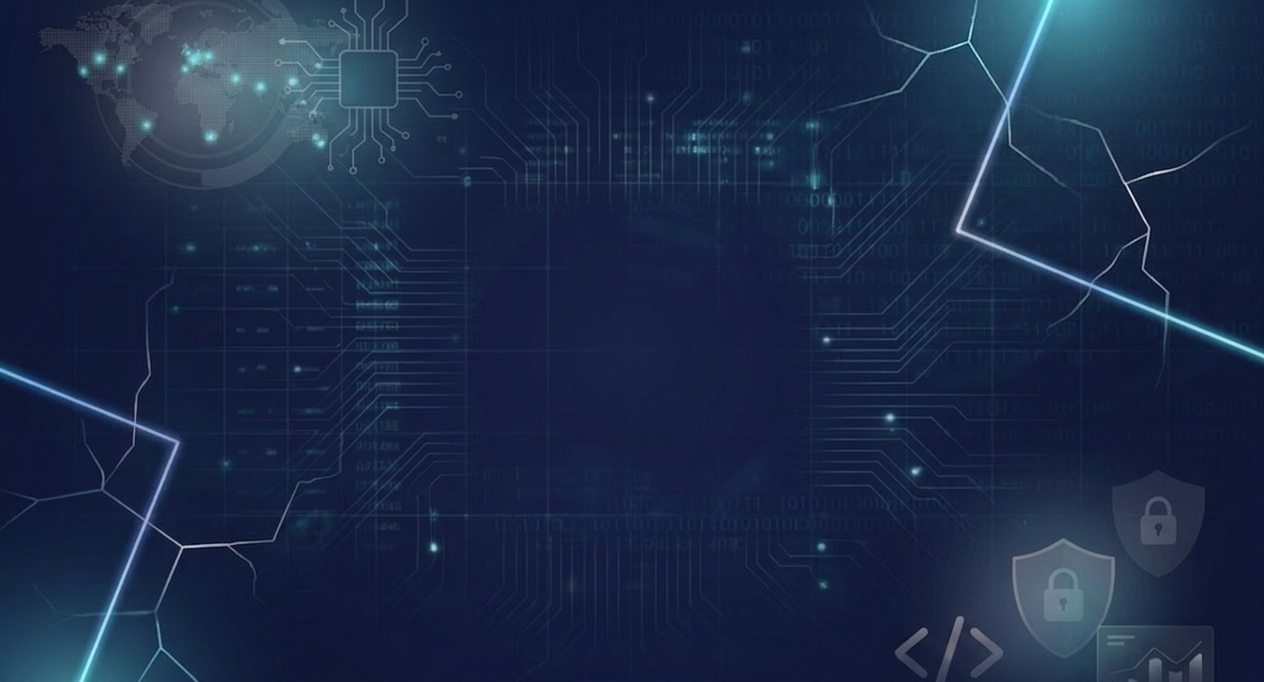
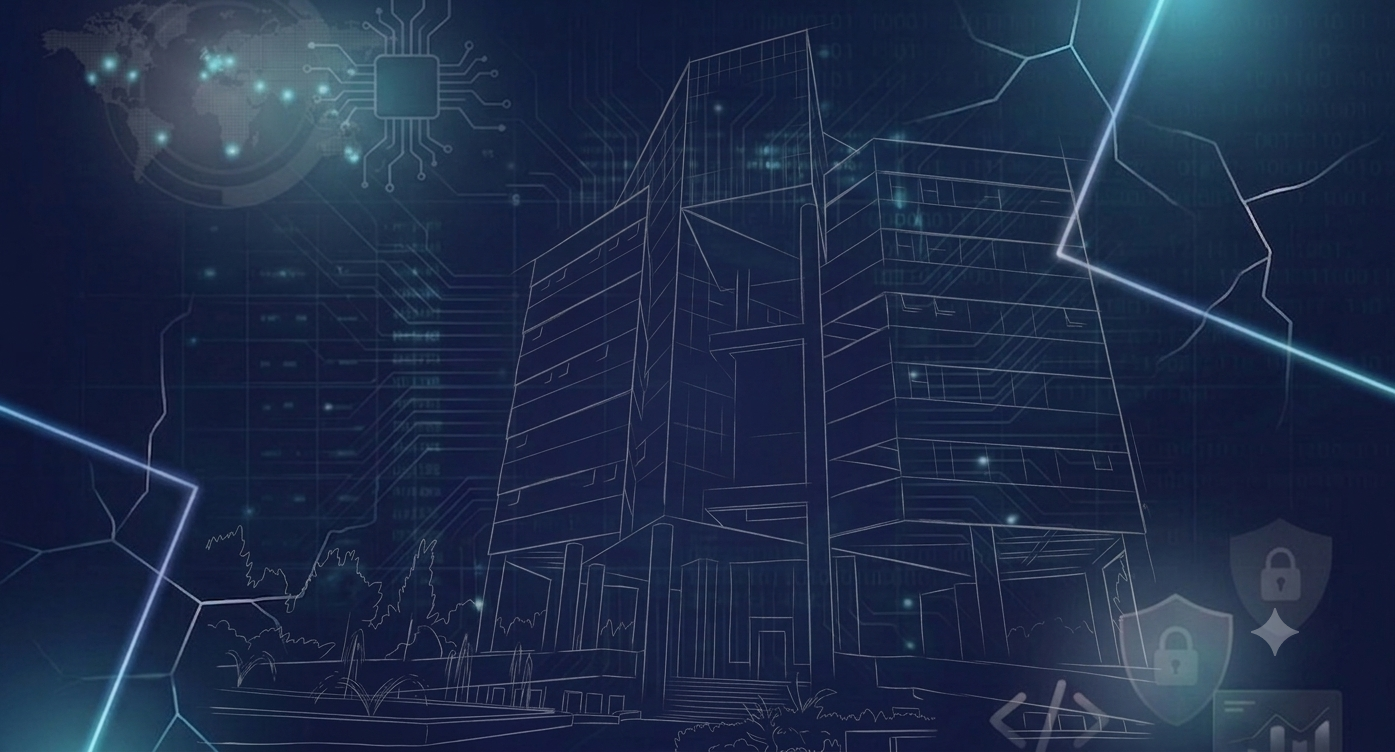
Se realizaron los cambios propuestos

diff --git a/index.html b/index.html
@@ -103,6 +103,14 @@ nav.scrolled {
   border-radius: 10px; padding: 5px;
 }
 
+/* Segundo logo institucional del navbar, junto al de la ESPE */
+.nav-badges { display: flex; align-items: center; gap: 0.6rem; flex-shrink: 0; }
+.ph-nav-badge-2 {
+  width: 42px; height: 42px; object-fit: contain;
+  background: linear-gradient(135deg, #ffffff 0%, #e2e8f0 100%);
+  border-radius: 10px; padding: 5px;
+}
+
 /* Botón de inscripción en el navbar, junto al logo */
 .btn-inscripcion-nav {
   display: inline-flex; align-items: center; gap: 8px;
@@ -190,11 +198,32 @@ header::after {
 
 .hero-content { max-width: 900px; position: relative; z-index: 10; display: flex; flex-direction: column; align-items: center;}
 
-.ph-hero-logo {
-  width:400px; height: auto; max-height: 250px; border-color: var(--green);
-  color: var(--green); font-size: 1.2rem; font-weight: bold; 
-  
+/* Fila superior de logos institucionales del Hero: ESPE + Hackathon lado a lado */
+.hero-logos-row {
+  display: flex; align-items: flex-start; justify-content: center;
+  gap: 1.50rem; flex-wrap: nowrap; margin-bottom: 1.75rem;
 }
+.hero-logo-espe {
+  background: linear-gradient(135deg, #ffffff 0%, #e2e8f0 100%);
+  border-radius: 18px; padding: 14px 28px;
+  display: flex; align-items: center; justify-content: center;
+  box-shadow: 0 8px 30px rgba(0,0,0,.35);
+}
+.hero-logo-espe img { max-height: 80px; width: auto; object-fit: contain; }
+
+.ph-hero-logo {
+  width: auto; max-height: 120px; object-fit: contain; border-color: var(--green);
+  color: var(--green); font-size: 1.2rem; font-weight: bold; 
+}
+
+/* Etiqueta de texto que acompaña a los logos, en la misma línea */
+.hero-logo-label {
+  background: rgba(0,212,255,.1); border: 1px solid var(--cyan);
+  border-radius: 14px; padding: 14px 26px; box-shadow: var(--cyan-glow);
+  font-family: 'Bebas Neue', sans-serif; font-size: 1.3rem; letter-spacing: 1px;
+  color: white; display: flex; align-items: center; text-align: left; line-height: 1.15;
+}
+.hero-logo-label span { color: var(--cyan); display: block; }
 
 .badge-presencial {
   display: inline-flex; align-items: center; gap: 8px;
@@ -205,8 +234,9 @@ header::after {
 }
 
 .hero-title {
-  font-size: clamp(3rem, 7vw, 6rem); color: white;
+  font-size: clamp(4rem, 9vw, 1rem); color: white;
   text-shadow: 0 0 40px rgba(0,212,255,.3); margin-bottom: 1rem;
+  text-align: center;
 }
 .hero-title span { color: var(--cyan); display: block; }
 
@@ -269,23 +299,26 @@ header::after {
 }
 .insc-left h3 span { color: var(--green); }
 .inscripcion-doc-note {
-  display: flex; align-items: center; gap: 12px; text-align: left;
-  background: rgba(255,255,255,0.03); border: 1px solid rgba(0,255,157,.25);
-  padding: 12px 18px; border-radius: 12px; margin-top: 1.25rem; max-width: 460px;
+  display: flex; align-items: center; gap: 18px; text-align: left;
+  background: rgba(0,255,157,0.07); border: 2px solid var(--green);
+  box-shadow: var(--green-glow);
+  padding: 20px 26px; border-radius: 16px; margin-top: 1.5rem; max-width: 560px;
   position: relative;
 }
 .inscripcion-doc-note .doc-icon {
-  width: 34px; height: 34px; flex-shrink: 0; border-radius: 9px;
-  background: rgba(0,255,157,.12); display: flex; align-items: center; justify-content: center;
-  color: var(--green); font-size: 1rem;
+  width: 48px; height: 48px; flex-shrink: 0; border-radius: 12px;
+  background: rgba(0,255,157,.18); display: flex; align-items: center; justify-content: center;
+  color: var(--green); font-size: 1.5rem;
 }
-.inscripcion-doc-note p { color: var(--text-muted); font-size: 0.8rem; margin: 0; }
-.inscripcion-doc-note strong { color: white; }
+.inscripcion-doc-note p { color: var(--text-main); font-size: 0.98rem; margin: 0; }
+.inscripcion-doc-note strong { color: var(--green); text-transform: uppercase; letter-spacing: 0.5px; }
 .inscripcion-doc-note a {
-  display: inline-block; margin-top: 4px; color: var(--green); font-weight: bold;
-  text-decoration: underline; text-underline-offset: 3px; font-size: 0.8rem;
+  display: inline-flex; align-items: center; gap: 6px; margin-top: 10px;
+  background: var(--green); color: var(--navy); font-weight: 700;
+  padding: 8px 16px; border-radius: 50px; text-decoration: none; font-size: 0.85rem;
+  transition: transform 0.25s ease, box-shadow 0.25s ease;
 }
-.inscripcion-doc-note a:hover { color: white; }
+.inscripcion-doc-note a:hover { box-shadow: var(--green-glow); transform: translateY(-2px); }
 
 .insc-right { position: relative; flex-shrink: 0; }
 .btn-inscripcion-main {
@@ -449,39 +482,66 @@ footer {
 
 /* Logos Institucionales en el Footer */
 .footer-institutions {
-  display: flex; justify-content: center; align-items: center; gap: 3rem; 
+  display: flex; justify-content: center; align-items: flex-start; gap: 3rem; 
   flex-wrap: wrap; padding-bottom: 3rem;
   border-bottom: 1px solid rgba(255,255,255,0.05);
 }
+.footer-logo {
+  display: flex; flex-direction: column; align-items: center; gap: 0.75rem;
+  max-width: 200px;
+  flex: 0 1 auto;
+}
+.footer-logo.club-logo {
+  flex-basis: 100%;
+}
+.footer-logo figcaption {
+  font-size: 0.72rem; color: var(--text-muted); line-height: 1.4;
+}
 
-/* Contenedor con degradado blanco/plateado para Logo ESPE (letras negras) */
+/* Contenedor para Logo ESPE sin fondo */
 .logo-espe-wrapper {
-  background: linear-gradient(135deg, #ffffff 0%, #e2e8f0 100%);
-  padding: 15px 25px;
-  border-radius: 12px;
   display: flex;
   align-items: center;
   justify-content: center;
-  box-shadow: 0 4px 15px rgba(255, 255, 255, 0.1);
-  transition: transform 0.3s ease;
-}
-.logo-espe-wrapper:hover {
-  transform: translateY(-5px);
-  box-shadow: 0 6px 20px rgba(255, 255, 255, 0.2);
 }
 .logo-espe-wrapper img {
-  max-height: 50px; 
+  max-height: 70px; 
   width: auto; 
   object-fit: contain;
 }
 
 .footer-institutions img:not(.logo-espe-wrapper img) { 
-  max-height: 80px; width: auto; object-fit: contain; border-radius: 8px;
+  max-height: 70px; width: auto; object-fit: contain; border-radius: 8px;
 }
 .ph-footer-hackathon { 
-  width: 200px; height: 80px; border-color: var(--green); 
+  max-height: 70px; width: auto; border-color: var(--green); 
   color: var(--green); border-width: 2px; object-fit: contain; border-radius: 8px;
 }
+
+/* Contacto del Club de Software en el Footer */
+.footer-contact {
+  display: flex; flex-direction: column; align-items: center; gap: 1rem;
+  margin-bottom: 3rem;
+}
+.footer-contact h4 {
+  font-family: 'Outfit', sans-serif; font-size: 0.75rem; color: var(--text-muted);
+  letter-spacing: 0.5px; font-weight: 400; opacity: 0.7; text-transform: uppercase;
+}
+.footer-contact-links {
+  display: flex; gap: 1rem; flex-wrap: wrap; justify-content: center;
+}
+.footer-contact-links a {
+  display: inline-flex; align-items: center; gap: 8px;
+  background: rgba(0,212,255,0.04); border: 1px solid rgba(0,212,255,.2);
+  padding: 10px 18px; border-radius: 50px;
+  font-size: 0.85rem; color: var(--text-main);
+  transition: border-color 0.3s, color 0.3s, box-shadow 0.3s, transform 0.3s;
+}
+.footer-contact-links a:hover {
+  border-color: var(--cyan); color: var(--cyan); box-shadow: var(--cyan-glow);
+  transform: translateY(-2px);
+}
+.footer-contact-links svg { width: 16px; height: 16px; fill: currentColor; flex-shrink: 0; }
 
 .footer-columns {
   display: grid; grid-template-columns: 1fr 1fr; gap: 2rem;
@@ -536,7 +596,12 @@ footer {
   </div>
 
   <div class="nav-right">
-    <img class="ph-nav-espe" src="Logo_ESPE2.png" alt="Logo ESPE">
+    <div class="nav-badges">
+      <!-- CAPTION: Logo ESPE (insignia pequeña para el navbar) -->
+      <img class="ph-nav-espe" src="Logo_ESPE2.png" alt="Logo ESPE">
+      <!-- CAPTION: Segunda insignia institucional del navbar (reemplaza "Logo_Institucional_2.png" por el archivo real que quieras mostrar aquí) -->
+      <img class="ph-nav-badge-2" src="logovinculacion.jpeg" alt="Logo institucional adicional">
+    </div>
     <a href="https://docs.google.com/forms/d/e/1FAIpQLSc0TqaAcPY1ib2VGJAzqL5fJ3yWcwm42sS-F6JQEDcWLLJ-4w/viewform" target="_blank" rel="noopener" class="btn-inscripcion-nav">
       <span class="long-label">Inscríbete</span><span class="short-label">🡒</span>
     </a>
@@ -564,12 +629,20 @@ footer {
   <div class="hero-bg-img" ></div>
 
   <div class="hero-content reveal">
-    
-    <img src="Logo_hackathon.png" class="ph-hero-logo" alt="Logo Principal Hackathon">
 
-    <h1 class="hero-title">
+    <!-- Fila superior: Logo ESPE (grande, sobre tarjeta blanca) + Logo del Hackathon, lado a lado -->
+    <div class="hero-logos-row">
+      <div class="hero-logo-espe">
+        <!-- CAPTION: Logo institucional ESPE (Universidad de las Fuerzas Armadas) - imagen "logos_pages-to-jpg-0003.jpg" -->
+        <img src="Logo_ESPE.png" alt="Logo ESPE - Universidad de las Fuerzas Armadas">
+      </div>
+      <!-- CAPTION: Logo principal del Defense Hack Challenge ESPE -->
+      <img src="Logo_hackathon2.png" class="ph-hero-logo" alt="Logo Principal Hackathon">
+       <h1 class="hero-title">
       DEFENSE HACK <span>CHALLENGE ESPE</span>
     </h1>
+    </div>
+
     <p class="hero-subtitle">
       Hackathon de ciberdefensa organizado por la ESPE. Únete al desafío de proteger infraestructuras críticas, sistemas de salud y datos sensibles en un entorno simulado de alta exigencia.
     </p>
@@ -788,13 +861,54 @@ footer {
   
   <!-- LOGOS INSTITUCIONALES -->
   <div class="footer-institutions reveal">
-    <!-- Contenedor especial con fondo para el logo transparente de la ESPE -->
-    <div class="logo-espe-wrapper">
-      <img src="Logo_ESPE.png" alt="Logo ESPE">
+
+    <!-- CAPTION: Logo ESPE (Universidad de las Fuerzas Armadas) - imagen "logos_pages-to-jpg-0003.jpg" -->
+    <figure class="footer-logo">
+      <div class="logo-espe-wrapper">
+        <img src="logos_pages-to-jpg-0003.jpg" alt="Logo ESPE">
+      </div>
+      <figcaption>Universidad de las Fuerzas Armadas ESPE</figcaption>
+    </figure>
+
+    <!-- CAPTION: Logo Vicerrectorado de Investigación, Innovación y Transferencia de Tecnología - imagen "logos_pages-to-jpg-0002.jpg" -->
+    <figure class="footer-logo">
+      <img src="Logo_Vicerrectorado_Investigacion.jpg" alt="Logo Vicerrectorado de Investigación, Innovación y Transferencia de Tecnología">
+      <figcaption>Vicerrectorado de Investigación, Innovación y Transferencia de Tecnología</figcaption>
+    </figure>
+
+    <!-- CAPTION: Logo Vinculación ESPE - imagen "logos_pages-to-jpg-0001.jpg" -->
+    <figure class="footer-logo">
+      <img src="Logo_Vinculacion_ESPE.jpg" alt="Logo Vinculación ESPE">
+      <figcaption>Vinculación ESPE</figcaption>
+    </figure>
+
+    <!-- CAPTION: Logo del Defense Hack Challenge ESPE -->
+    <figure class="footer-logo">
+      <img class="ph-footer-hackathon" src="Logo_hackathon2.png" alt="Logo Hackathon">
+      <figcaption>Defense Hack Challenge ESPE</figcaption>
+    </figure>
+
+    <!-- CAPTION: Logo Club OpenHub / Club de Desarrollo de Software -->
+    <figure class="footer-logo club-logo">
+      <img src="Logo_ClubOpenHub.png" alt="Logo Club OpenHub">
+      <figcaption>Club de Desarrollo de Software ESPE</figcaption>
+    </figure>
+
+  </div>
+
+  <!-- CONTACTO DEL CLUB DE SOFTWARE -->
+  <div class="footer-contact reveal">
+    <h4>Redes sociales del Club de desarrollo de Software ESPE</h4>
+    <div class="footer-contact-links">
+      <a href="https://www.tiktok.com/@clubsoftwareespe" target="_blank" rel="noopener">
+        <svg viewBox="0 0 24 24"><path d="M16.6 5.82a4.28 4.28 0 0 1-3.09-1.32V15.5a5.32 5.32 0 1 1-4.53-5.26v2.36a2.98 2.98 0 1 0 2.1 2.85V2h2.32a4.28 4.28 0 0 0 3.2 4.14z"/></svg>
+        TikTok
+      </a>
+      <a href="https://www.instagram.com/openhub.club/" target="_blank" rel="noopener">
+        <svg viewBox="0 0 24 24"><path d="M12 2.2c3.2 0 3.58.01 4.85.07 1.17.05 1.8.24 2.22.4.56.22.96.48 1.38.9.42.42.68.82.9 1.38.16.42.35 1.05.4 2.22.06 1.27.07 1.65.07 4.85s-.01 3.58-.07 4.85c-.05 1.17-.24 1.8-.4 2.22-.22.56-.48.96-.9 1.38-.42.42-.82.68-1.38.9-.42.16-1.05.35-2.22.4-1.27.06-1.65.07-4.85.07s-3.58-.01-4.85-.07c-1.17-.05-1.8-.24-2.22-.4a3.72 3.72 0 0 1-1.38-.9 3.72 3.72 0 0 1-.9-1.38c-.16-.42-.35-1.05-.4-2.22-.06-1.27-.07-1.65-.07-4.85s.01-3.58.07-4.85c.05-1.17.24-1.8.4-2.22.22-.56.48-.96.9-1.38.42-.42.82-.68 1.38-.9.42-.16 1.05-.35 2.22-.4C8.42 2.21 8.8 2.2 12 2.2zm0 3.05a6.75 6.75 0 1 0 0 13.5 6.75 6.75 0 0 0 0-13.5zm0 11.13a4.38 4.38 0 1 1 0-8.76 4.38 4.38 0 0 1 0 8.76zm7.02-11.4a1.58 1.58 0 1 1-3.16 0 1.58 1.58 0 0 1 3.16 0z"/></svg>
+        Instagram
+      </a>
     </div>
-    
-    <img src="Logo_hackathon.png" class="ph-footer-hackathon" alt="Logo Hackathon">
-    <img src="Logo_ClubOpenHub.png" alt="Logo Club OpenHub">
   </div>
 
   <!-- FOOTER EN DOS COLUMNAS -->
